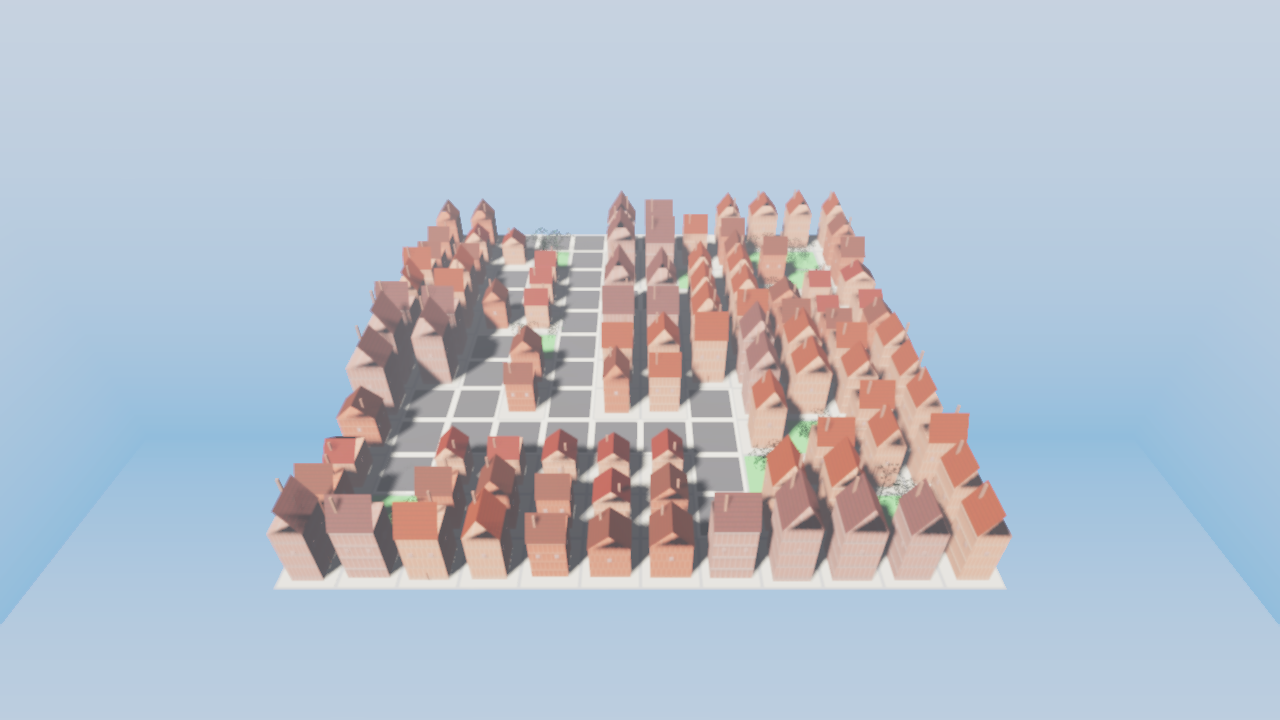
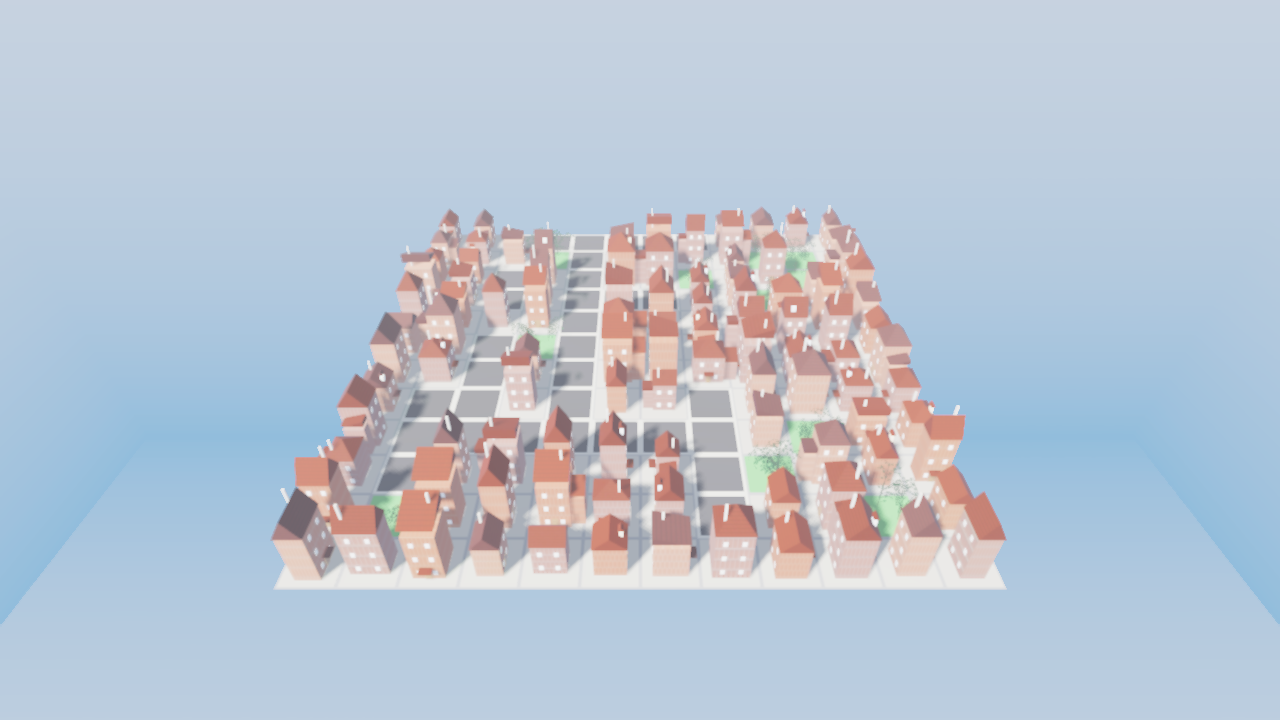
G31: update screenshot references (new landscape with erosion+splatmap biomes, pipeline city shots) — lossless zlib-9 recompressed (3.69 MB -> 393-786 KB each)

Changed region(s): [[0.1875, 0.275, 0.8125, 0.825]]

diff --git a/examples/worldgen_screenshot/main.cpp b/examples/worldgen_screenshot/main.cpp
@@ -696,9 +696,10 @@ int main(int argc, char** argv) {
         }
         addSunAndSky(scene, cam, fuhgl::math::normalize(fuhgl::math::Vec3{-0.3f, 0.55f, 0.6f}));
 
-        // overview close over the plateau: road grid + houses fill the frame, sky at top
-        cam.position = {0.f, 40.f, 75.f};
-        aimAt(cam, {0.f, world.waterLevelWorld * 1.05f, 0.f});
+        // overview steeply down onto the plateau (like the WFC city shot): road grid +
+        // houses fill the lower frame, sky/mountains above
+        cam.position = {0.f, 70.f, 90.f};
+        aimAt(cam, {0.f, world.waterLevelWorld, 0.f});
         const std::string ovPath = args.prefix + "_pipeline.png";
         if (!renderToPng(scene, cam, renderer, args.frames, args.width, args.height, ovPath,
                          &wc.surface, &env)) {
